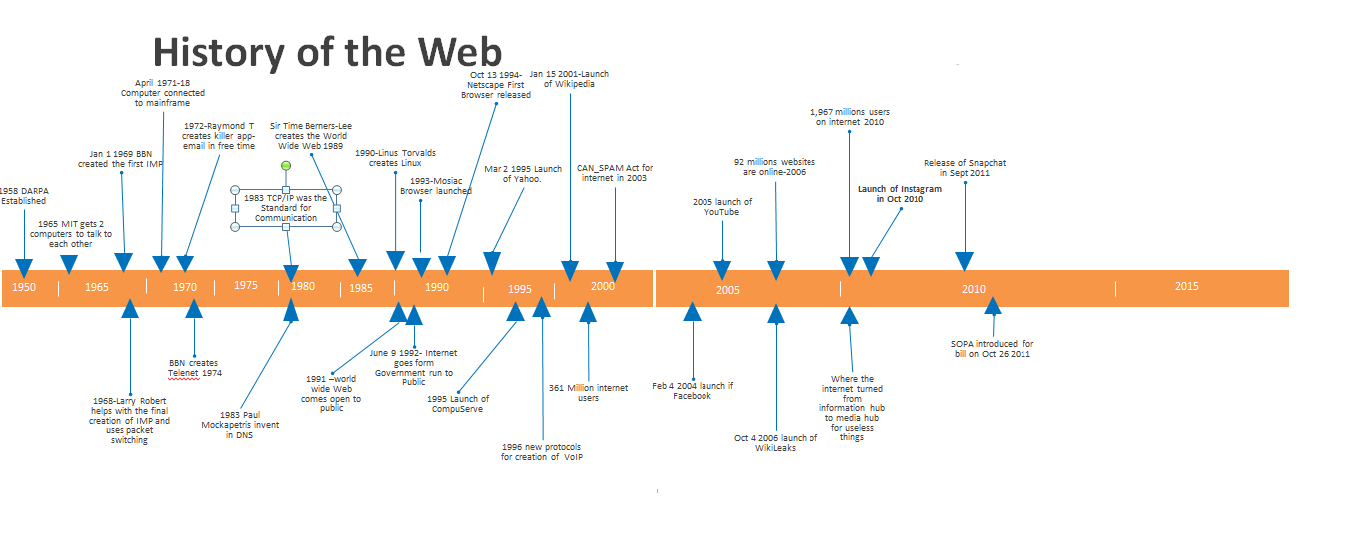
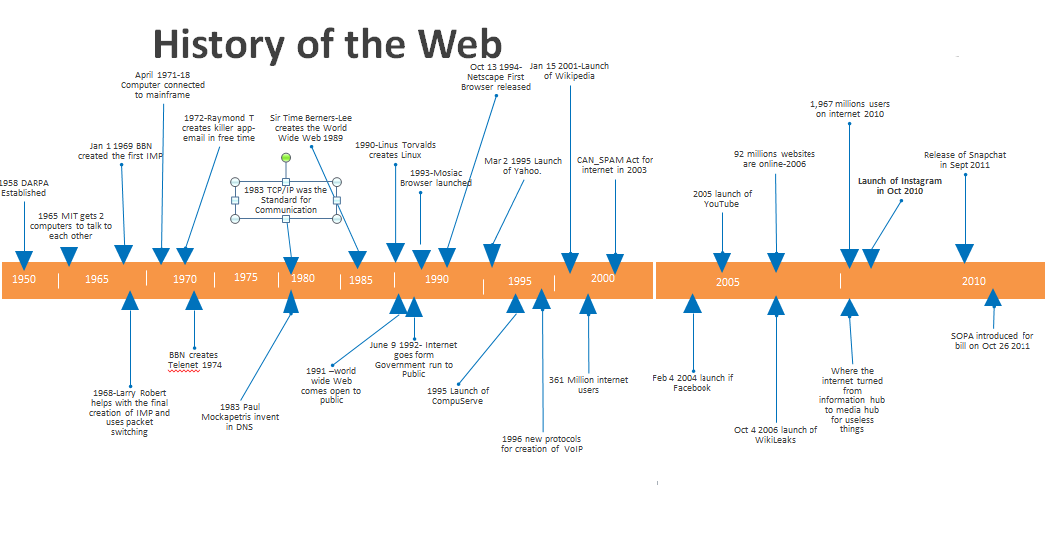
adding updated files for content

diff --git a/src/about.html b/src/about.html
@@ -20,37 +20,60 @@
         <![endif]-->
 
         <!-- Add your site or application content here -->
- <div id="wrapper">
-          <h2 id= "headerLinks">
-	  	      <a href='index.html'>Home</a> |
-            <a href='contact.html'>Contacts</a> |
-            <a href='howitwork.html'>How It Works</a> |
-            <a href='history.html'>History</a> |
-            <a href='about.html'>About Us</a> |
- </div>	
-
-
+    <div id ='wrapper'>
+      <div id ="header">
+        <div id="logo">
+       <img src="img/logo.jpg" alt="Logo"style= "width:367px; height:70px;" />
+        </div>  
+        
+        <div id="menu">
+            <ul>
+               <li><a href='index.html'>Home</a>|</li> 
+               <li><a href='contact.html'>Contacts</a>|</li> 
+               <li><a href='howitwork.html'>How It Works</a>|</li> 
+               <li><a href='history.html'>History</a>|</li> 
+               <li><a href='about.html'>About Us</a>|</li> 
+            </ul>
+        </div> 
+      </div> 
+      
+      <div id = "content">
+       
 <h2> About the Website/Us.</h2>
 <p> As student of Professor Williams IS117-101 class, we are creating a website to help inform others the history of the web.</p>
 <P> Most people thing that the web is some magically elemenent and they do not know the correct history of the web.</p>
 <p> Many would say that Al Gore created the internet and would be wrong but this website now exists to give people</p>
 <p> a more condensed but accurate history of the web.For more information regarding the history, please head on over</p>
 <p> to the History and How it Works Page in the link above or below.</p>
-<br>
-<br>
-<br>
-<br>
-<br>
-<br>
-<br>
-
+      </div>
+      
+     
+      
         <div id="footer">
-        	<h2 id="footerAnchors">
-		      	<a href='index.html'>Home</a> |
-            <a href='contact.html'>Contacts</a> |
-            <a href='howitwork.html'>How It Works</a> |
-            <a href='history.html'>History</a> |
-            <a href='about.html'>About Us</a> |</div>	
+        <p>Copyright &copy; VictorCC/AW93 vcc3@njit.edu/aw93@njit.edu</p>
+
+            <ul>
+               <li><a href='index.html'>Home</a>|</li> 
+               <li><a href='contact.html'>Contacts</a>|</li> 
+               <li><a href='howitwork.html'>How It Works</a>|</li> 
+               <li><a href='history.html'>History</a>|</li> 
+               <li><a href='about.html'>About Us</a>|</li> 
+            </ul>
+        </div> 
+        
+        
+        
+        
+        
+        
+        
+        
+        
+        
+        
+
+
+
 
         <script src="https://code.jquery.com/jquery-{{JQUERY_VERSION}}.min.js"></script>
         <script>window.jQuery || document.write('<script src="js/vendor/jquery-{{JQUERY_VERSION}}.min.js"><\/script>')</script>

diff --git a/src/index.html b/src/index.html
@@ -39,23 +39,28 @@
       </div> 
       
       <div id = "banner">
+      <p>Start Learning now!<br><button onclick="window.location='history.html'">History</button><br></p>
+      
         <!------hero text should go here-->
       </div>
       
       <div id= "feature">
         <div id="feature1">
         <h2>Welcome</h2>
-        <p>Do you know what the internet really is? Do you know what is before we had DSL and everything else? Most people just remember the internet from when they had dial up and they had to either use the internet or get off the phone.  The internet was just developing and becoming what we know and use today. But the concept of the internet was well alive before then. In facts, it started back in 1958.</p>
+        <p>Do you know what the internet really is? Do you know what is before we had DSL and everything else? Most people just remember the internet from when they had dial up and they had to either use the internet or get off the phone.Below is link to the history page.Check it out!</p>
+        
       </div>
       
       <div id= "feature2">
         <h2>Why we Exist.</h2>
-        <p>This website is here to help you gain a quick understanding of the history of the internet and the people who shaped it. Our How it  works pages explains the how opening your browser and typing into the search bar starts the connection to connect to servers for the web pages you visit. The History page contains a nice timeline and dates for the most important milestones in web history.</p>
+        <p>Do you know how the internet works? Are you sure? Most people do not undestand the concept of what happens from when you hit enter in the search/address bar to the moment the web page loads. Our How it Works page gives a quick explanation with a flow chart on the process of how the web pages get to your screen. </p>
+          <button onclick="window.location='howitwork.html'">How It Works</button>
       </div>
       
       <div id= "feature3">
-        <h2>Click Below</h2>
-         <button onclick="window.location='howitwork.html'">Click Me</button>
+        <h2> Other pages</h2>
+       
+        
       
         <br>
         <br>

diff --git a/src/css/main.css b/src/css/main.css
@@ -90,11 +90,6 @@ textarea {
 
 
 
-body {   
-      
-     
-     }
-    
 
 #wrapper {
   width: 960px;
@@ -102,7 +97,7 @@ body {
   margin-right: auto;
 }
 #banner {
-  color: #ffffff;
+  color: white;
   clear: both;
   height: 480px;
   width: 960px;
@@ -114,7 +109,19 @@ body {
   margin: 0px;
   padding: 0px;
 }
+#banner p{
+font-family: "Times New Roman", Times, serif;
+font-size: 40px;
+position: absolute;
+right: 200px;
+bottom: 60px;
+
+
+}
+
 #content{
+height: auto;
+border: 1px solid #000000;
 }
 #infograph{
 }
@@ -149,8 +156,7 @@ display:inline;
 
 #logo {
 
-  background-color:white;
-  
+  background-color:white;  
   border:1px solid #000000;
   width: 363px;
   height: 70px;
@@ -170,6 +176,9 @@ display:inline;
 }
 #banner img {
   width: 100%;
+}
+#content h2{
+text-align: center;
 }
 #footer {
   width:960px;

diff --git a/src/contact.html b/src/contact.html
@@ -37,18 +37,18 @@
             </ul>
         </div> 
       </div> 
-      
-     <h2> Hello and welcome to the contact Page!!!!!</h2>
-<br>
-<p>Victor can be reached at vcc3@njit.edu</p>
-<br>
-<p>Andrew can be reached at aw93@njti.edu</p>
-<br>
-
-<br>
-<br>
-<br>
-<br>
+      <div id="content">
+       <h2>Welcome to the Contact Page!</h2>
+        <br>
+        <p>Victor can be reached at vcc3@njit.edu</p>
+        <br>
+        <p>Andrew can be reached at aw93@njti.edu</p>
+        <br>
+        <br>
+        <br>
+        <br>
+        <br>
+      </div>  
       
 
       

diff --git a/src/howitwork.html b/src/howitwork.html
@@ -38,8 +38,8 @@
         </div> 
       </div> 
       
-      <div id = "banner">
-        <!------hero text should go here-->
+      <div id = "content">
+        <!------content text should go here-->
       </div>
       
   

diff --git a/src/history.html b/src/history.html
@@ -41,7 +41,7 @@
       <div id = "content">
        <h2> Welcome to the History Page.</h2>
        <br>
-<img src= "img/timeline.png">
+<img src= "img/timeline.png "style="width:906px;">
 <br>
 <h2> 1950-1959</h2>
 <ul>
